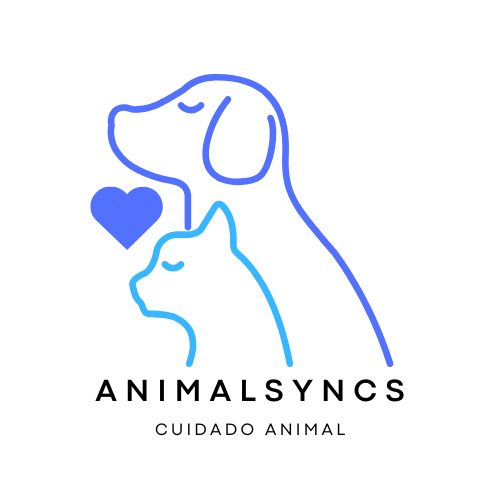
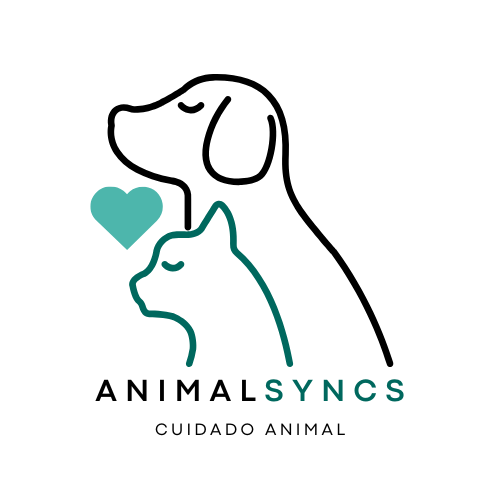
Terminado el homepage

Changed region(s): [[0.18, 0.15, 0.6, 0.75], [0.51, 0.42, 0.81, 0.81], [0.48, 0.51, 0.54, 0.6]]

diff --git a/06-logincompleto/lib/presentation/screens/login-screen.dart b/06-logincompleto/lib/presentation/screens/login-screen.dart
@@ -63,7 +63,7 @@ class _LoginScreenState extends State<LoginScreen> with SingleTickerProviderStat
   Widget build(BuildContext context) {
 
     return Scaffold(
-        backgroundColor: const Color(0xFF4DB6AC),
+        backgroundColor: Colors.blueGrey[100],
         body: SafeArea(
           child: Padding(
             padding: const EdgeInsets.all(10.0),
@@ -78,8 +78,8 @@ class _LoginScreenState extends State<LoginScreen> with SingleTickerProviderStat
                     const SizedBox(
                       height: 50,
                     ),
-                    const CircleAvatar(
-                      backgroundColor: Colors.teal,
+                    CircleAvatar(
+                      backgroundColor: Colors.blueGrey[100],
                       radius: 80,
                       child: CircleAvatar(
                         backgroundColor: Colors.white,
@@ -96,14 +96,34 @@ class _LoginScreenState extends State<LoginScreen> with SingleTickerProviderStat
                     const SizedBox(
                       height: 30,
                     ),
-                    Text(
-                      'AnimalSyncs!',
-                      textAlign: TextAlign.center,
-                      style: GoogleFonts.redHatDisplay(
+                    RichText(
+                      text: TextSpan(
+                        children: [
+                          TextSpan(
+                            text: 'Animal',
+                            style: GoogleFonts.redHatDisplay(
+                          fontSize: 25,
+                          color: Colors.black,
+                          fontWeight: FontWeight.w700)
+                          ),
+                          TextSpan(
+                            text: 'Syncs',
+                            style: GoogleFonts.redHatDisplay(
                           fontSize: 25,
                           color: Colors.teal,
-                          fontWeight: FontWeight.w700),
+                          fontWeight: FontWeight.w700)
+                          )
+                        ]
+                      )
                     ),
+                    // Text(
+                    //   'AnimalSyncs!',
+                    //   textAlign: TextAlign.center,
+                    //   style: GoogleFonts.redHatDisplay(
+                    //       fontSize: 25,
+                    //       color: Colors.teal,
+                    //       fontWeight: FontWeight.w700),
+                    // ),
                     Text(
                       'El cuidado de tu mascota es importante!',
                       textAlign: TextAlign.center,
@@ -178,7 +198,7 @@ class _LoginScreenState extends State<LoginScreen> with SingleTickerProviderStat
                             alignment: AlignmentDirectional.centerEnd,
                             child: TextButton(
                               child: Text('Recuperar contraseña',
-                                  style: GoogleFonts.redHatDisplay()),
+                                  style: GoogleFonts.redHatDisplay(color: Colors.teal)),
                               onPressed: () {
                                 context.push('/securitycheckout');
                               },
@@ -192,7 +212,7 @@ class _LoginScreenState extends State<LoginScreen> with SingleTickerProviderStat
                             height: 60,
                             child: ElevatedButton(
                               style: ElevatedButton.styleFrom(
-                                backgroundColor: Colors.teal,
+                                backgroundColor: Colors.teal[500],
                                 shape: RoundedRectangleBorder(
                                   borderRadius: BorderRadius.circular(15),
                                 ),
@@ -244,7 +264,8 @@ class _LoginScreenState extends State<LoginScreen> with SingleTickerProviderStat
                                 icon: const FaIcon(
                                   FontAwesomeIcons.facebook,
                                   size: 35,
-                                  color: Colors.teal,
+                                  color: Colors.blueGrey
+                                  ,
                                 ),
                               ),
                               // const Icon(Icons.apple, size: 35,),),

diff --git a/06-logincompleto/lib/presentation/screens/welcome-screen.dart b/06-logincompleto/lib/presentation/screens/welcome-screen.dart
@@ -14,11 +14,12 @@ class WelcomeScreen extends StatefulWidget {
 
 class _WelcomeScreenState extends State<WelcomeScreen> with SingleTickerProviderStateMixin {
   List<String> svgList = <String>[
-    'assets/images/welcome/initial2.svg',
-    'assets/images/welcome/initial3.svg',
-    'assets/images/welcome/initial4.svg',
-    'assets/images/welcome/initial5.svg',
-    'assets/images/welcome/initial6.svg'
+    'assets/images/welcome/w1.svg',
+    'assets/images/welcome/w2.svg',
+    'assets/images/welcome/w3.svg',
+    'assets/images/welcome/w4.svg',
+    'assets/images/welcome/w5.svg',
+    'assets/images/welcome/w6.svg',
   ];
 
   List<String> textList = <String>[
@@ -26,7 +27,8 @@ class _WelcomeScreenState extends State<WelcomeScreen> with SingleTickerProvider
     'Revelation',
     'Uncovering',
     'Detection',
-    'Discover'
+    'Discover',
+    'Search'
   ];
 
   late PageController _pageController;
